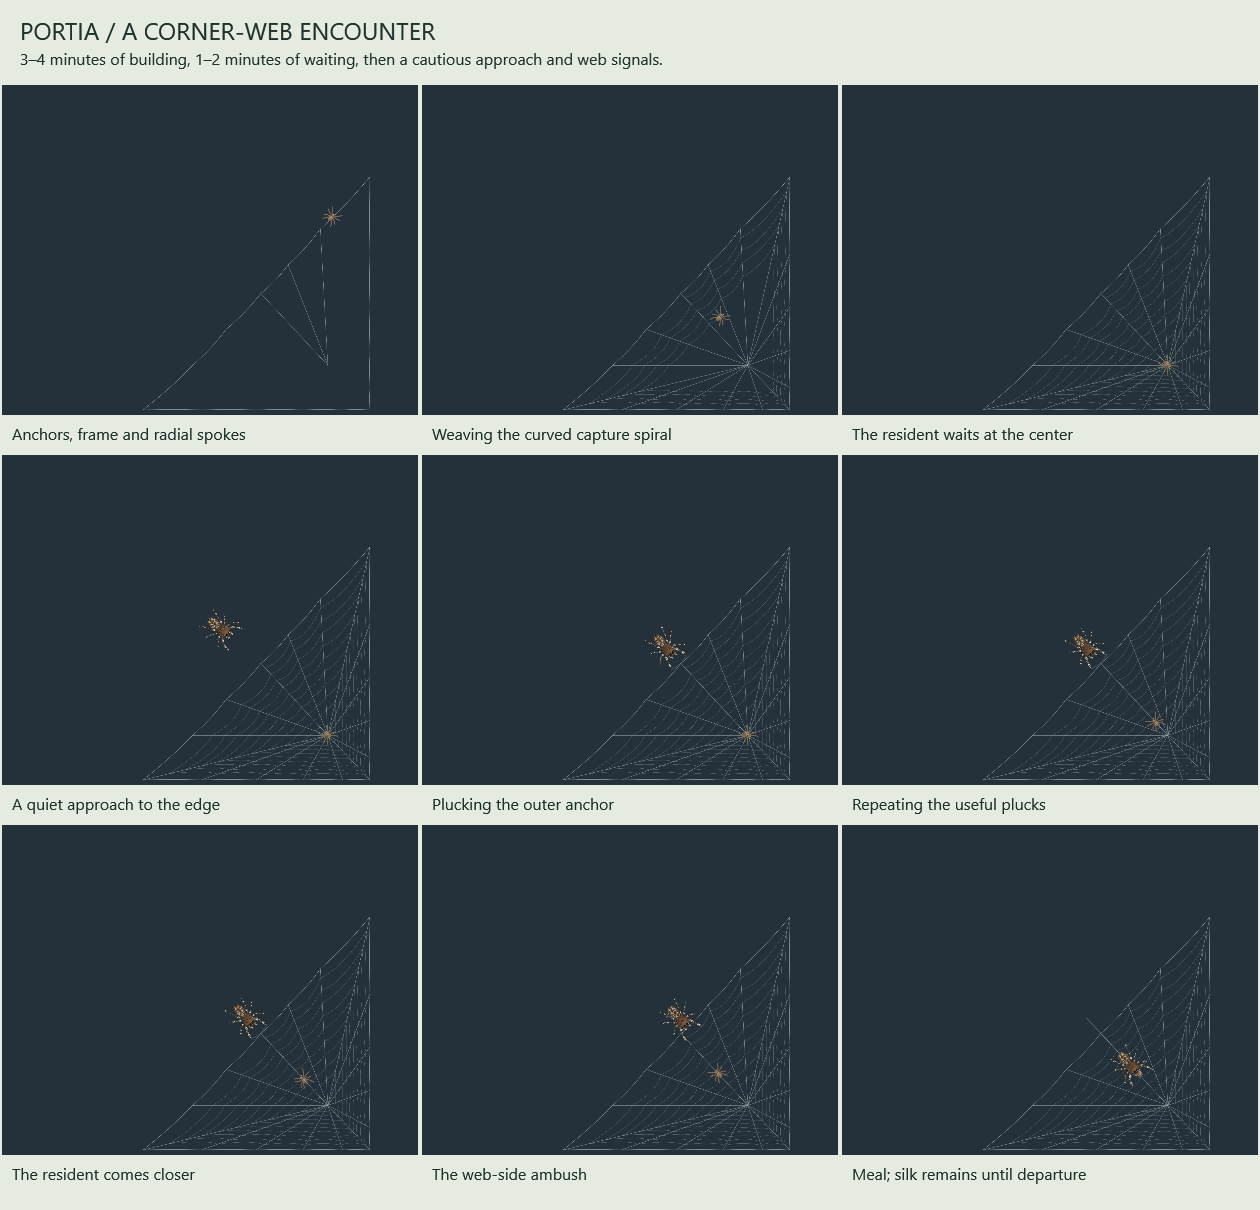
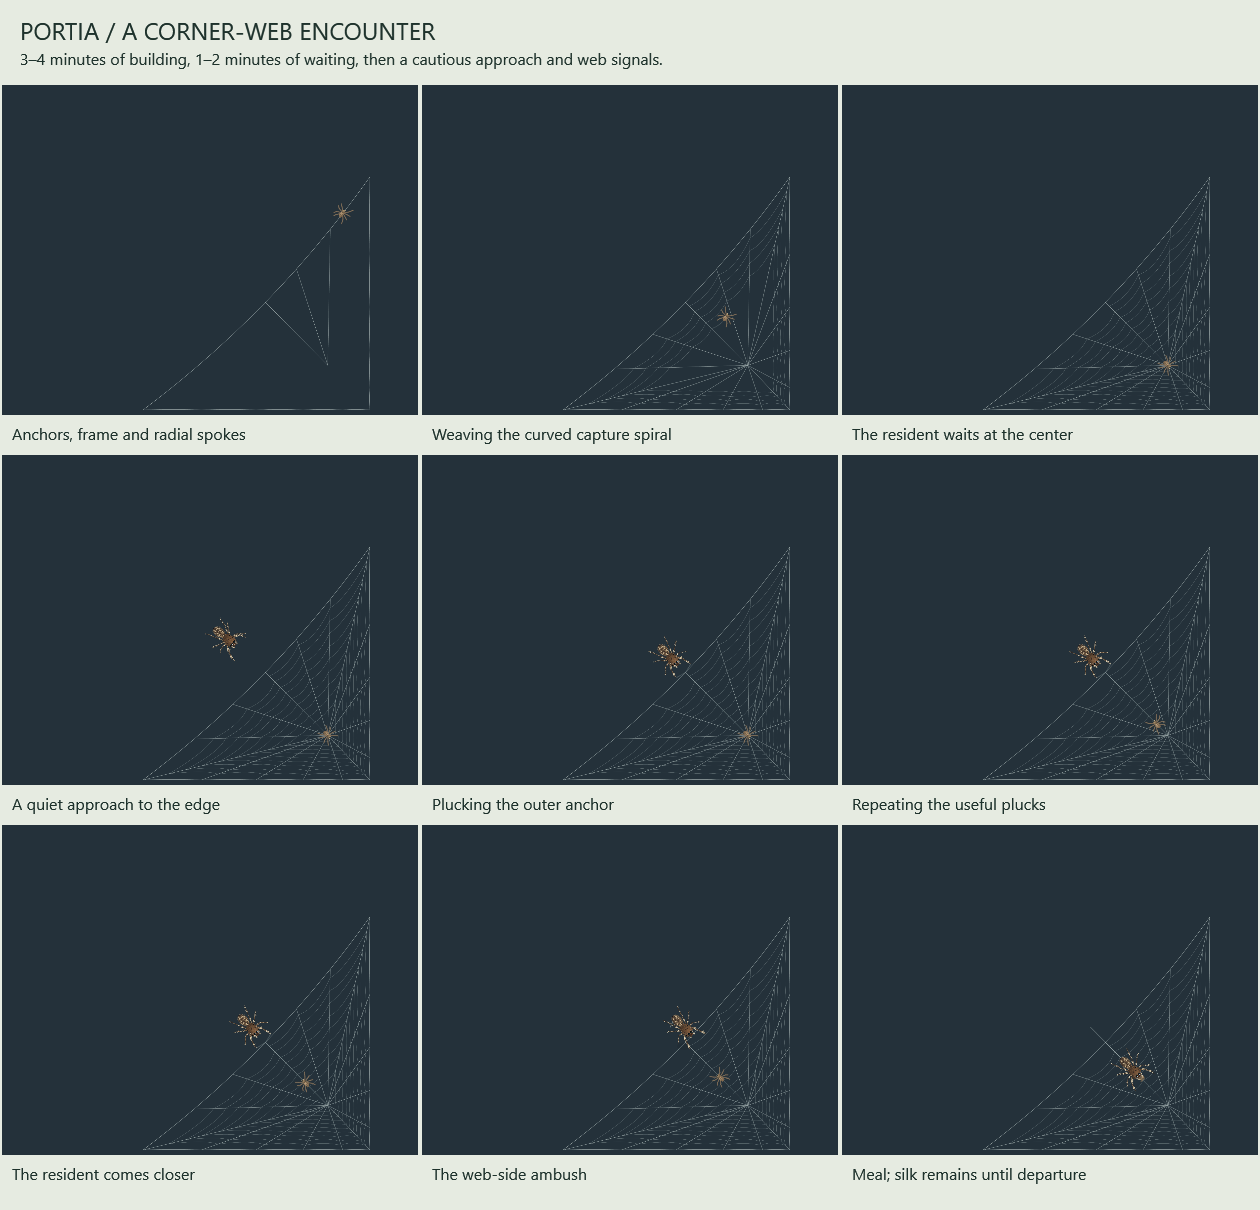
Curve the resident web edge smoothly inward between its anchors

diff --git a/GuestWebPattern.cs b/GuestWebPattern.cs
@@ -17,6 +17,7 @@ namespace CornerSpider {
     public static class GuestWebPattern {
         public const int Spokes=16,Turns=9;
         public static readonly V Hub=new V(34,36);
+        static readonly double[] bridgeTimes={0,.2,.36,.5,.64,.8,1};
         static readonly V[] rim=MakeRim();
         static readonly GuestStrand[] strands=MakeStrands();
         static readonly double[] starts=new double[strands.Length],travel=new double[strands.Length],lengths=new double[strands.Length];
@@ -40,10 +41,24 @@ namespace CornerSpider {
             // edge anchors; no part bulges past that supported span. Eleven
             // radial endpoints attach directly to an edge instead of leaving
             // a round orb suspended from a handful of distant guy lines.
-            return new[]{new V(88,94),new V(66,117),new V(40,146),new V(0,188),
-                new V(0,126),new V(0,83),new V(0,48),new V(0,18),new V(0,0),
-                new V(22,0),new V(54,0),new V(92,0),new V(136,0),new V(183,0),
-                new V(143,36),new V(116,65)};
+            var points=new V[Spokes];
+            var anchors=new[]{new V(0,188),new V(0,126),new V(0,83),new V(0,48),
+                new V(0,18),new V(0,0),new V(22,0),new V(54,0),new V(92,0),
+                new V(136,0),new V(183,0)};
+            Array.Copy(anchors,0,points,3,anchors.Length);
+            for(int i=0;i<bridgeTimes.Length;i++) points[(13+i)%Spokes]=BridgePoint(bridgeTimes[i]);
+            return points;
+        }
+        // Pull the bridge control point one quarter of the way toward the hub.
+        // A single quadratic arc keeps the open edge gently concave throughout,
+        // with both desktop attachment points fixed. Split it exactly at spoke
+        // joins so construction, artwork and plucking use the same curve.
+        static V BridgeControl { get { V middle=new V(91.5,94);return middle+(Hub-middle)*.25; } }
+        static V BridgePoint(double t) { double u=1-t;return new V(183,0)*(u*u)+BridgeControl*(2*u*t)+new V(0,188)*(t*t); }
+        static V BridgeTangent(double t) { return (BridgeControl-new V(183,0))*(2*(1-t))+(new V(0,188)-BridgeControl)*(2*t); }
+        static GuestStrand Bridge(double start,double end) {
+            V a=BridgePoint(start),b=BridgePoint(end);double span=(end-start)/3;
+            return new GuestStrand(a,a+BridgeTangent(start)*span,b-BridgeTangent(end)*span,b,0);
         }
         static GuestStrand Line(V a,V b,int kind) { return new GuestStrand(a,a+(b-a)*(1.0/3),a+(b-a)*(2.0/3),b,kind); }
         static GuestStrand Scallop(V a,V b,int kind,double slack) {
@@ -54,7 +69,8 @@ namespace CornerSpider {
             var list=new List<GuestStrand>();
             // Lay the continuous edge-to-edge bridge first, then close its
             // frame along the two real edges before adding spokes and silk.
-            for(int i=13;i<13+Spokes;i++) list.Add(Scallop(Rim(i),Rim(i+1),0,.018));
+            for(int i=0;i<bridgeTimes.Length-1;i++) list.Add(Bridge(bridgeTimes[i],bridgeTimes[i+1]));
+            for(int i=3;i<13;i++) list.Add(Scallop(Rim(i),Rim(i+1),0,.018));
             for(int i=0;i<Spokes;i++) list.Add(i%2==0?Line(Hub,Rim(i),1):Line(Rim(i),Hub,1));
             // A continuous, inward winding capture spiral. Each join lies on
             // an actual spoke, with modest spacing variation and inward sag.

diff --git a/PetSettingsWindow.cs b/PetSettingsWindow.cs
@@ -140,7 +140,7 @@ namespace CornerSpider {
             var help=NewPanel();help.Children.Add(Text("A quiet little desktop companion",21));
             Note(help,"Approach an awake spider and hold still for the configured invitation delay. The finger fades in; the spider can jump on, hang, climb and wander. Move gently to carry it. A click lets it plan an upward hop; a fast move startles it. The finger holds still until takeoff, and your pointer returns immediately. Your clicks still reach your apps.");
             Note(help,"It watches from corners, stalks occasional flies and returns to its silk retreat. Use the tray's quick actions to feed, call it home, wake or pause it. Double-click the tray icon to reopen these settings.");
-            Note(help,"Corner Spider 1.0 RC7\nFree software under the MIT License. The pet works offline with no accounts or telemetry. Optional Cash App support opens your browser only when clicked. Preferences are stored in LocalAppData\\CornerSpider. See README.txt for removal and manual checks.");
+            Note(help,"Corner Spider 1.0 RC8\nFree software under the MIT License. The pet works offline with no accounts or telemetry. Optional Cash App support opens your browser only when clicked. Preferences are stored in LocalAppData\\CornerSpider. See README.txt for removal and manual checks.");
             Note(help,"Future ideas: custom colors by body region; crickets, mealworms and other prey; additional spider species; an optional background with depth to explore.");AddTab("About & play",help);
             saveTimer.Tick+=delegate { saveTimer.Stop();host.Save();saveStatus.Text=host.Settings.LastError.Length==0?"Saved. Changes are live on your desktop.":"Could not save preferences. Check that your save folder is writable."; };
             Closed+=delegate { IsClosed=true;saveTimer.Stop();encounterTimer.Stop();Preview.Dispose();host.Save(); };

diff --git a/JumpingSpider.cs b/JumpingSpider.cs
@@ -13,7 +13,7 @@ using Forms=System.Windows.Forms;
 [assembly:System.Runtime.Versioning.TargetFramework(".NETFramework,Version=v4.8")]
 [assembly:System.Reflection.AssemblyVersion("1.0.0.0")]
 [assembly:System.Reflection.AssemblyFileVersion("1.0.0.0")]
-[assembly:System.Reflection.AssemblyInformationalVersion("1.0.0-rc.7")]
+[assembly:System.Reflection.AssemblyInformationalVersion("1.0.0-rc.8")]
 [assembly:System.Reflection.AssemblyTitle("Corner Spider")]
 [assembly:System.Reflection.AssemblyProduct("Corner Spider")]
 [assembly:System.Reflection.AssemblyDescription("A local jumping-spider companion for the Windows desktop.")]
@@ -262,7 +262,7 @@ namespace CornerSpider {
             }
         }
         void BuildTray() {
-            Menu=new Forms.ContextMenuStrip();Menu.Opening+=delegate { CursorVisibility.Release(); };Menu.Items.Add(new Forms.ToolStripMenuItem("CORNER SPIDER  1.0 RC7") { Enabled=false });
+            Menu=new Forms.ContextMenuStrip();Menu.Opening+=delegate { CursorVisibility.Release(); };Menu.Items.Add(new Forms.ToolStripMenuItem("CORNER SPIDER  1.0 RC8") { Enabled=false });
             var status=new Forms.ToolStripMenuItem { Enabled=false };Menu.Items.Add(status);
             Menu.Opening+=delegate { status.Text=(World.GuestStatus.Length>0?World.GuestStatus:World.State.ToString())+"  |  "+World.Meals+" prey caught"+(Settings.LastError.Length>0?"  |  Save failed":""); };
             Menu.Items.Add(new Forms.ToolStripSeparator());

diff --git a/GuestWebTests.cs b/GuestWebTests.cs
@@ -24,6 +24,15 @@ static class GuestWebTests {
             if(frame.D.X==0 && frame.D.Y>=185) reachesSide=true;
         }
         Check(reachesSide,"outer bridge finishes on the adjoining side edge");
+        for(int i=0;i<5;i++) {
+            var a=GuestWebPattern.Strand(i);var b=GuestWebPattern.Strand(i+1);
+            V incoming=a.D-a.C,outgoing=b.B-b.A;
+            Check(Math.Abs(incoming.X*outgoing.Y-incoming.Y*outgoing.X)<.000001 && incoming.X*outgoing.X+incoming.Y*outgoing.Y>0,
+                "outer edge has a continuous tangent through each spoke join, without pointed scallops");
+        }
+        V openMiddle=GuestWebPattern.Rim(0),chord=new V(-183,188);
+        double inset=Math.Abs((openMiddle.X-183)*chord.Y-openMiddle.Y*chord.X)/chord.Length;
+        Check(inset>8 && inset<15,"outer edge has a visible but gentle inward bow between fixed anchors");
         int anchors=0,curved=0,spiral=0;V previous=new V();bool first=true;
         for(int i=0;i<GuestWebPattern.Count;i++) {
             var strand=GuestWebPattern.Strand(i);

diff --git a/RuntimeTests.cs b/RuntimeTests.cs
@@ -32,7 +32,7 @@ namespace CornerSpider {
                 using(var icon=PetHost.MakeIcon("Bold")) using(var file=File.Create(Path.Combine(folder,"CornerSpider.ico"))) icon.Save(file);
                 return 0;
             }
-            log=new StringBuilder();log.AppendLine("Corner Spider 1.0 RC7 Windows runtime checks "+DateTime.Now.ToString("s"));
+            log=new StringBuilder();log.AppendLine("Corner Spider 1.0 RC8 Windows runtime checks "+DateTime.Now.ToString("s"));
             string testSettings=Path.Combine(folder,"settings");Check(new Settings { FingerTone=.37,Species="PortiaLabiata" }.Save(testSettings),"seed isolated finger-tone and Portia preferences");
             IntPtr foreground=Native.GetForegroundWindow();var host=new PetHost(testSettings,true);
             IntPtr afterCreation=Native.GetForegroundWindow();uint foregroundPid,afterCreationPid;

diff --git a/docs/VERIFICATION.md b/docs/VERIFICATION.md
@@ -1,62 +1,44 @@
-# Verification for 1.0.0-rc.7
+# Verification for 1.0.0-rc.8
 
-Local Windows verification, October 23, 2026. The RC6 working folder and release
-packages were preserved. The local Git repository is prepared for release;
-no public GitHub release was published.
+Local Windows verification, October 23, 2026. RC7 source, executable and release
+packages were preserved before changing the resident web's outer curve.
 
-## Behavior and appearance
+## Checked for RC8
 
-The Windows build and deterministic suites pass, including 183,042 corner-web
-checks and 48 complete Portia web encounters. See [behavior output](behavior-checks.txt).
-The geometry checks cover a continuous supported frame, multiple direct edge
-attachments, curved spiral joins on real spokes, construction following the silk,
-the moved hub and plucking point, and bounds at 20-180% size and 100-200% simulated
-DPI. All sampled strands remain inside the triangle between the two edges.
-Existing patrol reservation, single-prey limits, plucking/luring, capture and
-fade-after-departure checks remain intact.
+The deterministic suites pass, including 183,049 corner-web checks and 48 full
+Portia encounters. See [behavior output](behavior-checks.txt). The open edge is
+one smooth quadratic arc split at the radial spokes; checks verify matching
+tangents at joins, a visible inward bow, fixed edge attachments, supported bounds,
+construction following the visible silk, plucking, capture and departure fading.
+Sizes of 20-180% and simulated DPI of 100-200% remain covered.
+
+The targeted WPF checks verify visible silk, transparent bounds, contact with
+both desktop edges in all four corners, retained rendering and bounded image
+updates during construction. See [web rendering checks](web-render-checks.txt).
+These are the same web checks called by the full --self-test diagnostic.
 
 Inspected the [four-corner preview](prey-web-corners.png),
-[dark/light preview](prey-web-light-dark.png), [edge-plucking detail](portia-web-edge.png)
-and [nine-stage encounter](portia-web-encounter.png). Eleven direct attachments
-span the two desktop edges. The open rim is a continuous bridge from one edge
-to the other, bowed toward the corner. The resident waits at the visible hub.
-This is a procedural illustration for generic prey, not an exact species web
-or natural construction sequence. Portia's sleeping retreat remains separate.
+[light/dark preview](prey-web-light-dark.png), [plucking detail](portia-web-edge.png)
+and [full encounter gallery](portia-web-encounter.png). The shared curve moves
+the spoke endpoints, building path and Portia's contact together. Both desktop
+anchors remain fixed. The web is an illustration for generic prey, not an exact
+species web or natural construction sequence.
 
-## Windows and resources
+The packages are checked entry by entry, the extracted source rebuilds, and the
+portable executable reproduces the documented preview images. The desktop
+shortcut targets the current runnable build. The local Git tag is v1.0.0-rc.8;
+no public GitHub release was published.
 
-The Windows diagnostics check transparent, nonactivating, click-through overlays,
-settings, cursor restoration, resource handles, timer cleanup and shutdown.
-The web-specific checks verify retained artwork, bounded image updates during
-construction, transparency outside the footprint and visible silk contact with
-both edges in all four mirrored corners. See [native checks](windows-checks.txt).
+## Previous checks and manual follow-up
 
-This session exposes one physical display at 192 DPI (200%). Other monitor
-layouts, mixed DPI and disconnection are covered by deterministic simulations;
-the earlier RC6 session's two-monitor measurements are not new RC7 measurements.
+The broader [Windows diagnostics](windows-checks.txt) and
+[resource samples](web-load-checks.txt) are retained RC7 results, not new RC8 runs.
+Those checks covered transparency, click-through behavior, focus, settings,
+cursor restoration, shutdown and stable resource handles. They used one active
+192-DPI display. This small geometry change does not alter that platform code.
 
-The completed silk reuses one image generated from vectors at display resolution.
-Growth retains completed curves and updates the image in batches. Only the
-growing strand and plucking ripple need fresh geometry. Preview caches use weak
-world references and do not retain historical construction steps.
-
-[Live web load samples](web-load-checks.txt) measure completed silk and active
-construction at forced 30 fps on the current transparent overlay. These short
-samples include the pet and display overlay. They are not a long-term leak test
-or a guaranteed idle CPU figure. The larger native-test working set includes
-rendering galleries and repeatedly opening settings before its final sample.
-
-## Release and manual checks
-
-The package report records ZIP entry checks, an extracted-source build, matching
-portable artwork and the local Git commit/tag. Hosted GitHub CI remains untested
-until publication. No runtime assets are downloaded.
-
-To try it, select Portia and choose Settings > Behavior > Invite a web-building
-spider. Watch the edge-to-edge bridge, attached frame, spokes and spiral develop.
-The resident should wait at its hub, then approach Portia's plucking contact.
-After the meal the web should remain until Portia leaves, then fade.
-
-Automated complete hunts use simulated time. Watching the full multi-minute
-sequence, physical mixed-DPI changes, actual sleep/unplug, hands-on cursor feel
-and a long resource soak remain manual follow-up.
+For a manual look, select Portia, invite a web-building spider in Settings >
+Behavior, and check the open edge as the silk grows. It should curve gently toward
+the corner, stay attached to both edges, and keep its shape while Portia plucks.
+Automated complete hunts use simulated time. A full real-time encounter,
+physical mixed-DPI changes, sleep/unplug and a long resource soak remain manual.

diff --git a/RELEASING.md b/RELEASING.md
@@ -12,7 +12,7 @@ by the local packaging script or build workflow.
    ```text
    git remote add origin YOUR_REPOSITORY_URL
    git push -u origin main
-   git push origin v1.0.0-rc.7
+   git push origin v1.0.0-rc.8
    ```
 
    The prepared local repository already has the release tag. For a newly
@@ -25,7 +25,7 @@ by the local packaging script or build workflow.
 4. Run: `powershell -NoProfile -File .\Package.ps1`
    If local script policy blocks execution, use a PowerShell session permitted by
    your own policy; no permanent policy change is part of this project.
-5. Create a draft release tagged v1.0.0-rc.7 (mark it as a prerelease), targeting the reviewed commit. Use the
+5. Create a draft release tagged v1.0.0-rc.8 (mark it as a prerelease), targeting the reviewed commit. Use the
    notes in CHANGELOG.md. Attach the Windows ZIP, source ZIP and SHA256SUMS.txt from
    dist. The generic GitHub source archives do not contain the prebuilt executable.
 6. Check the draft's files and links, then publish when ready.
@@ -34,7 +34,7 @@ The portable executable is unsigned. Do not claim it is signed, security-certifi
 or tested on systems that were not exercised. Code signing is a future improvement.
 
 Before final 1.0, complete the manual checklist and update the informational
-version from 1.0.0-rc.7 to 1.0.0. Retest the exact release contents. The optional
+version from 1.0.0-rc.8 to 1.0.0. Retest the exact release contents. The optional
 support QR intentionally identifies the creator; review docs/SUPPORT.md before
 redistributing a fork. Keep this recipient or replace both QR and link deliberately.
 

diff --git a/README.md b/README.md
@@ -1,4 +1,4 @@
-# Corner Spider 1.0 RC7
+# Corner Spider 1.0 RC8
 
 A small jumping spider for your actual Windows desktop. It watches from corners,
 stalks occasional prey, builds a silk retreat and sometimes accepts a finger ride.
@@ -8,7 +8,7 @@ Portia's resident prey builds a larger corner web and waits at its center. Porti
 reserves that corner, then approaches its edge to pluck and lure the resident.
 The web stays visible after the meal until Portia moves clear. The resident weaves
 a corner-shaped web attached at eleven points along both desktop edges, with
-an inward-bowed outer bridge, radial spokes and curved spiral silk. The resident
+a smooth, gently concave outer bridge, radial spokes and curved spiral silk. The resident
 waits at its hub; Portia plucks a connected spoke at the outer edge.
 
 The Appearance preview includes each species' silk retreat in its upper-right
@@ -16,7 +16,7 @@ corner, with live skin, size and background changes.
 
 ![Settings with species silk preview and the original optional Cash App QR](docs/settings-banner.png)
 
-This is the **1.0.0-rc.7 release candidate**. Windows build and automated checks
+This is the **1.0.0-rc.8 release candidate**. Windows build and automated checks
 pass; the remaining hands-on release checklist is in [verification notes](docs/VERIFICATION.md).
 
 ## Download and start

diff --git a/CHANGELOG.md b/CHANGELOG.md
@@ -1,5 +1,13 @@
 # Changelog
 
+## 1.0.0-rc.8
+
+- Give the resident web's open edge a smooth, gently concave arc toward the
+  corner. Keep both desktop anchors fixed and preserve smooth tangents where
+  spokes meet the edge. The builder follows that same continuous arc.
+- Keep the resident, plucking contact and capture silk attached to the revised
+  frame. Verify curve continuity, inward bow, complete hunts and WPF rendering.
+
 ## 1.0.0-rc.7
 
 - Reshape the resident prey web into a supported corner web with eleven direct
